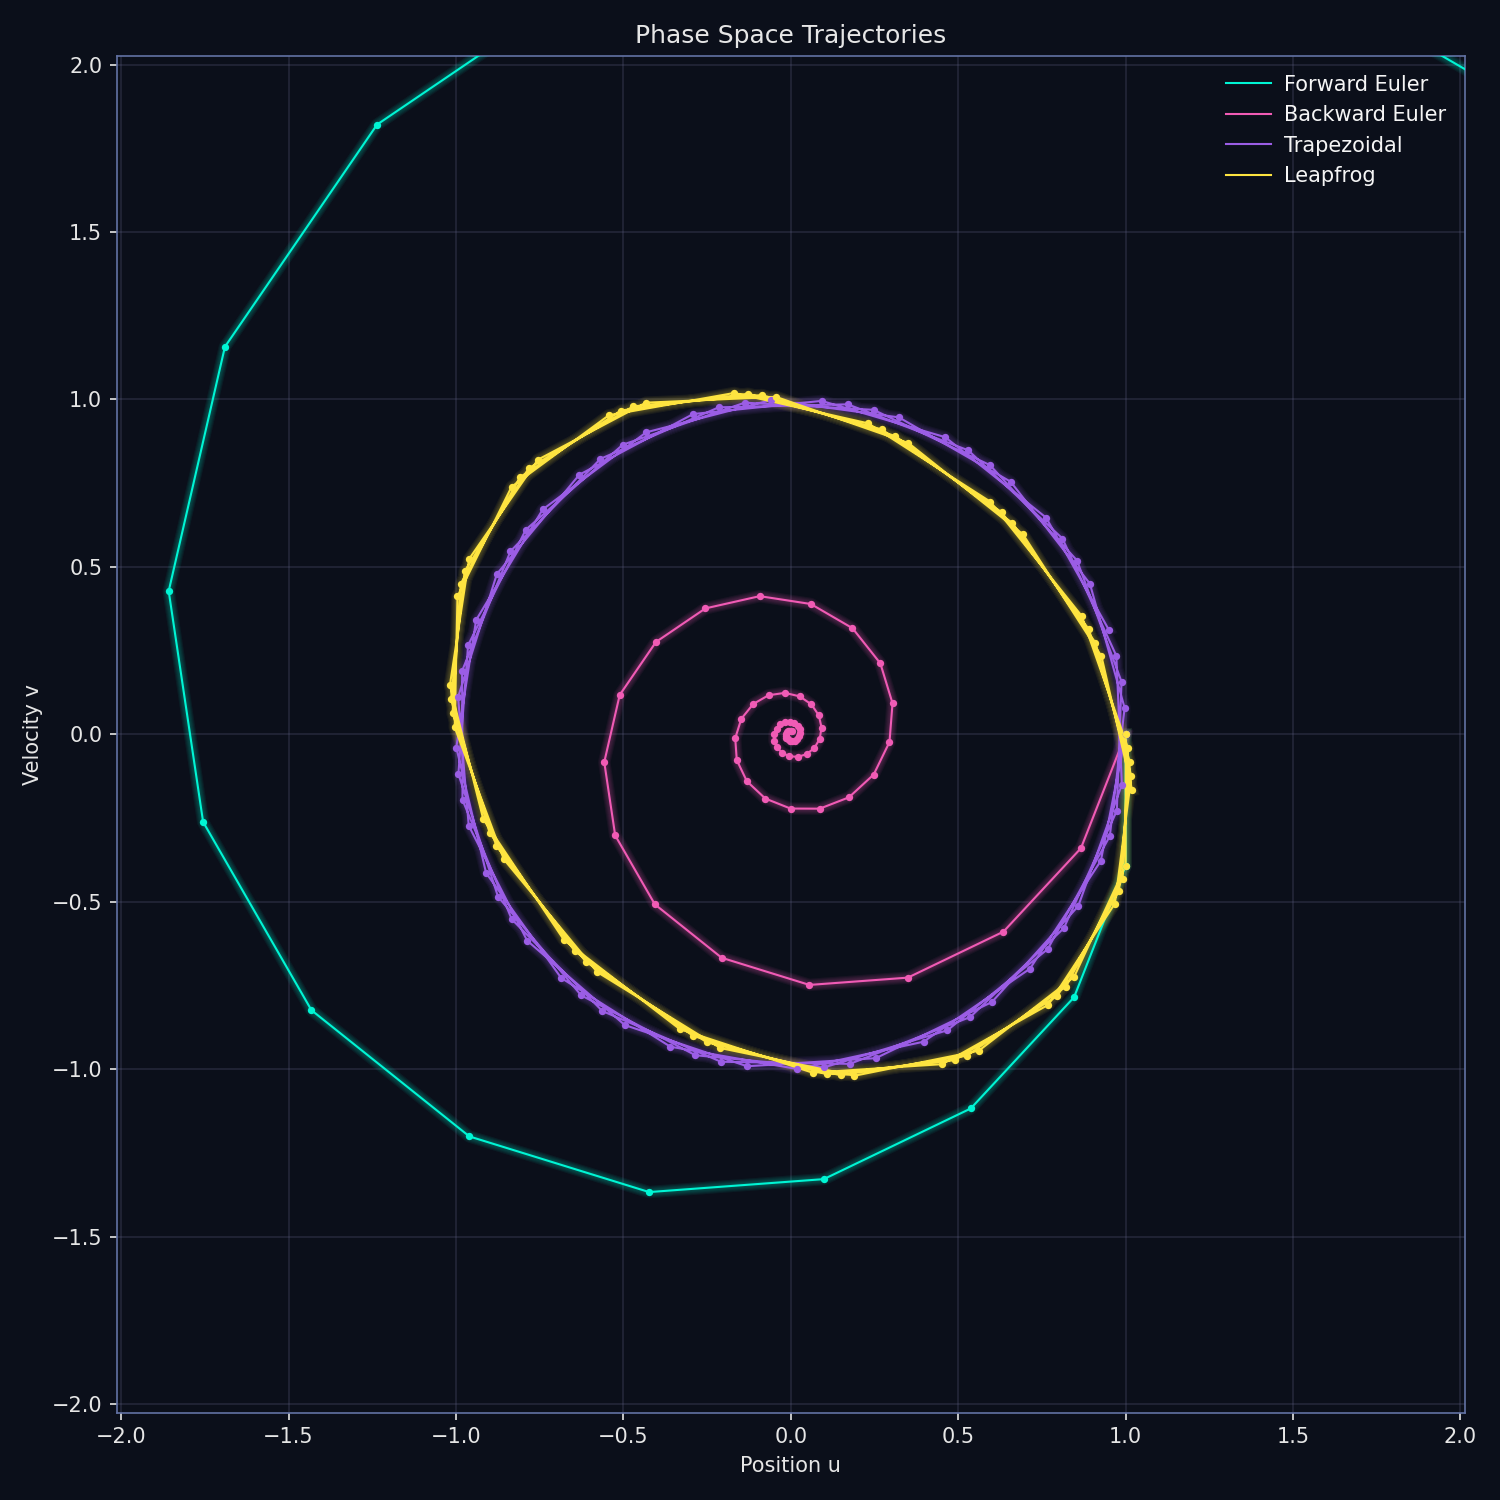
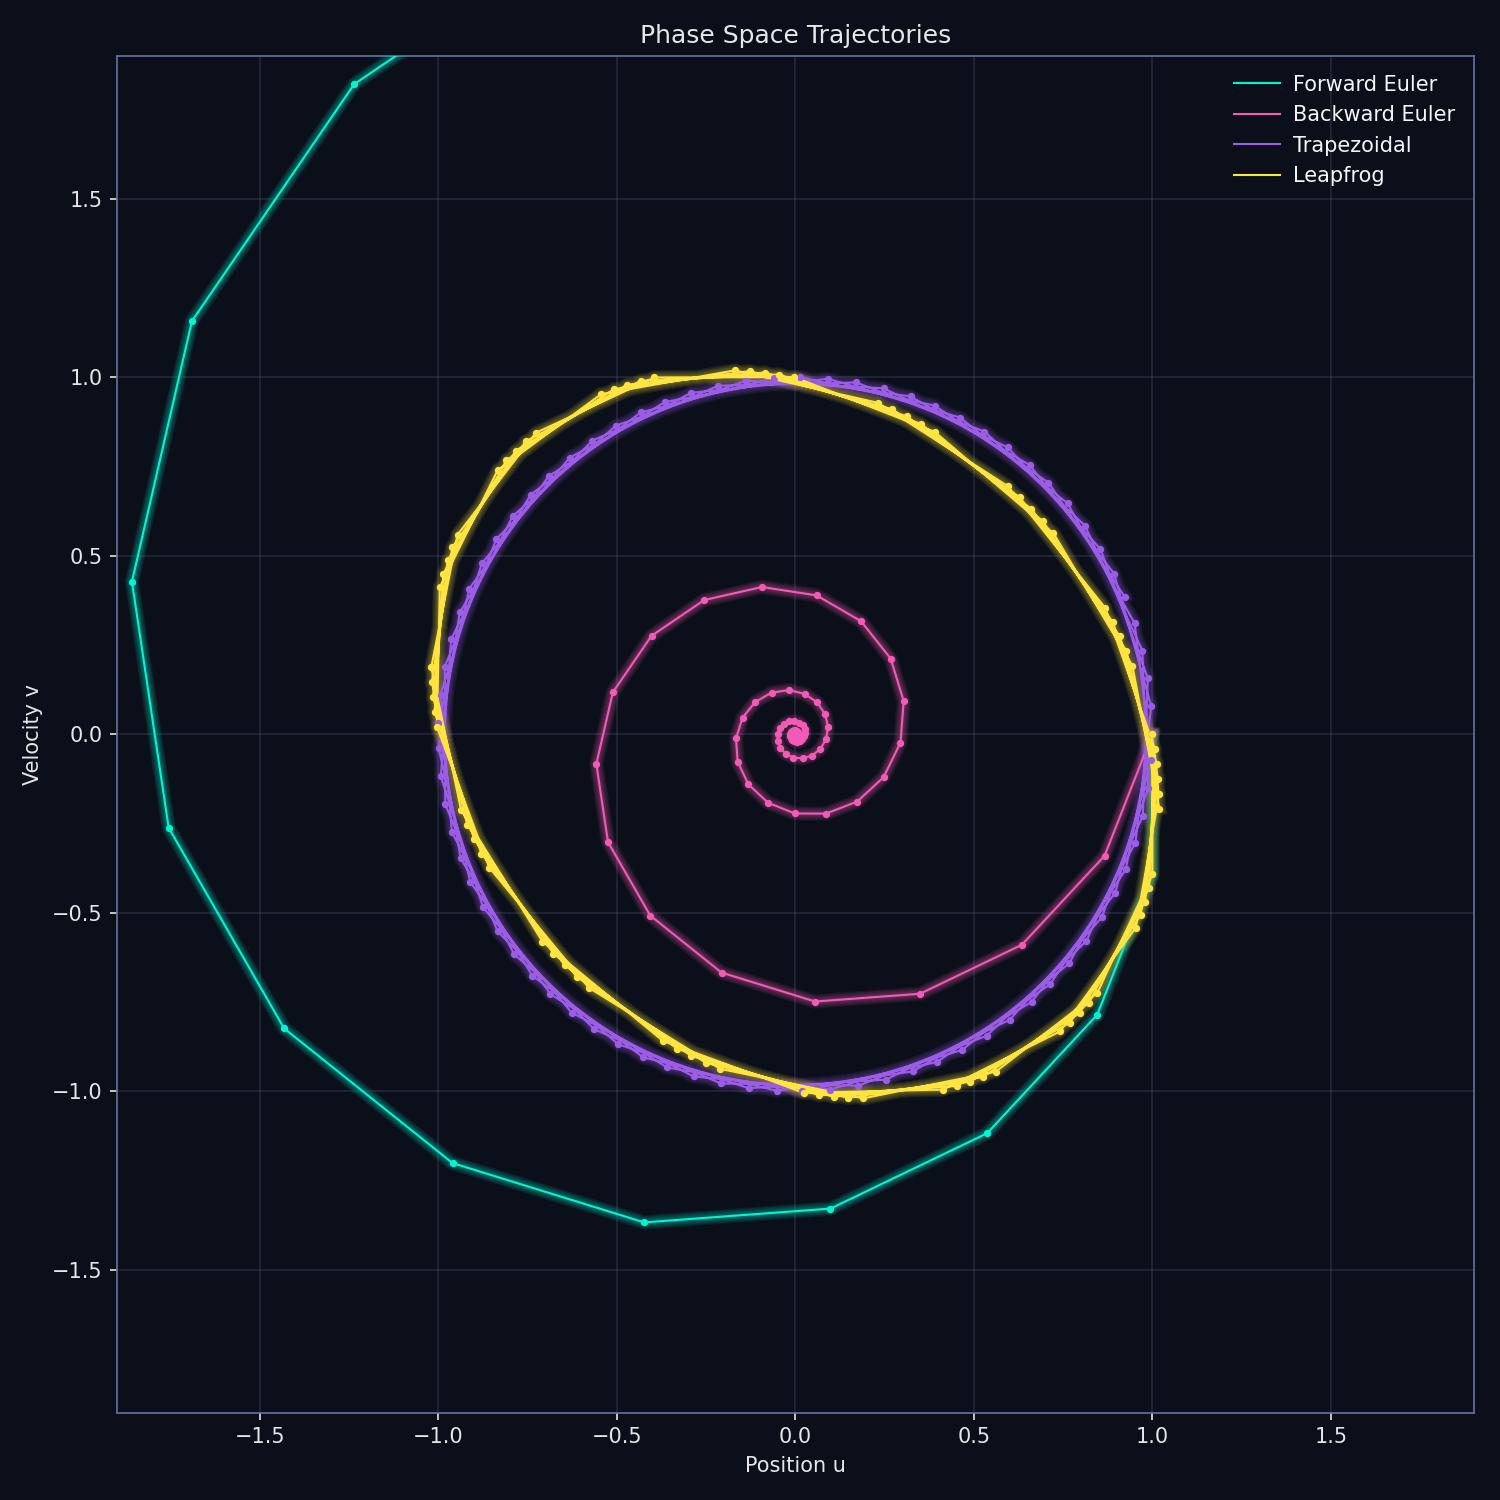
アニメーションも追加

diff --git a/strang/2-2/circular_orbit.py b/strang/2-2/circular_orbit.py
@@ -5,22 +5,22 @@
 # - 台形則
 # - 蛙飛び法
 
+from __future__ import annotations
+
 from pathlib import Path
+from typing import Mapping
 
 import numpy as np
 import matplotlib.pyplot as plt
+from matplotlib import animation
+from matplotlib.axes import Axes
+from matplotlib.lines import Line2D
+from cycler import cycler
 
 
-def neon_plot(x, y, ax=None):
-    if ax is None:
-        ax = plt.gca()
-    (line,) = ax.plot(x, y, lw=1.0, zorder=6)
-    for cont in range(6, 1, -1):
-        ax.plot(x, y, lw=cont, color=line.get_color(), zorder=5, alpha=0.06)
-    return line
-
-
-def run_simulation(method_name, dt=2 * np.pi / 16, steps=64):
+def run_simulation(
+    method_name: str, dt: float = 2 * np.pi / 16, steps: int = 64
+) -> tuple[np.ndarray, np.ndarray]:
     # 初期条件: (u, v) = (1, 0) からスタート
     u = np.zeros(steps + 1)
     v = np.zeros(steps + 1)
@@ -98,7 +98,17 @@ def run_simulation(method_name, dt=2 * np.pi / 16, steps=64):
     return u, v
 
 
-def plot_orbits(methods, dt=2 * np.pi / 16, steps=64, show_exact=False):
+def neon_plot(x: np.ndarray, y: np.ndarray, ax: Axes | None = None) -> Line2D:
+    if ax is None:
+        ax = plt.gca()
+    (line,) = ax.plot(x, y, lw=1.0, zorder=6)
+    for cont in range(7, 1, -1):
+        ax.plot(x, y, lw=cont, color=line.get_color(), zorder=5, alpha=0.07)
+    return line
+
+
+def setup_neon_style() -> list[str]:
+    color_cycle = ["#00f5d4", "#f15bb5", "#9b5de5", "#fee440", "#00bbf9"]
     plt.rcParams.update(
         {
             "figure.facecolor": "#0b0f1a",
@@ -109,11 +119,28 @@ def plot_orbits(methods, dt=2 * np.pi / 16, steps=64, show_exact=False):
             "ytick.color": "#e6e6e6",
             "text.color": "#e6e6e6",
             "grid.color": "#6c6f93",
-            "axes.prop_cycle": plt.cycler(
-                "color", ["#00f5d4", "#f15bb5", "#9b5de5", "#fee440", "#00bbf9"]
-            ),
+            "axes.prop_cycle": cycler("color", color_cycle),
         }
     )
+    return color_cycle
+
+
+def create_neon_lines(ax: Axes, color: str) -> tuple[Line2D, list[Line2D], Line2D]:
+    glow_widths = [7, 6, 5, 4, 3]
+    glow_lines = []
+    for lw in glow_widths:
+        (glow_line,) = ax.plot([], [], lw=lw, color=color, alpha=0.07, zorder=5)
+        glow_lines.append(glow_line)
+    (core_line,) = ax.plot([], [], lw=1.0, color=color, zorder=6)
+    (point,) = ax.plot([], [], ".", color=color, markersize=6, zorder=7)
+    return core_line, glow_lines, point
+
+
+def plot_orbits(
+    trajectories: Mapping[str, tuple[np.ndarray, np.ndarray]],
+    show_exact: bool = False,
+) -> None:
+    setup_neon_style()
 
     fig, ax = plt.subplots(figsize=(10, 10))
 
@@ -130,9 +157,8 @@ def plot_orbits(methods, dt=2 * np.pi / 16, steps=64, show_exact=False):
             zorder=2,
         )
 
-    for method in methods:
+    for method, (u_res, v_res) in trajectories.items():
         try:
-            u_res, v_res = run_simulation(method, dt=dt, steps=steps)
             if u_res[1] is not None:
                 line = neon_plot(u_res, v_res, ax=ax)
                 line.set_label(method)
@@ -151,9 +177,9 @@ def plot_orbits(methods, dt=2 * np.pi / 16, steps=64, show_exact=False):
     ax.set_title("Phase Space Trajectories")
     ax.set_xlabel("Position u")
     ax.set_ylabel("Velocity v")
-    ax.axis("equal")
-    ax.set_xlim((-2, 2))
-    ax.set_ylim((-2, 2))
+    ax.set_aspect("equal", adjustable="box")
+    ax.set_xlim((-1.9, 1.9))
+    ax.set_ylim((-1.9, 1.9))
     ax.legend(
         frameon=False,
         labelcolor="#f5f5f5",
@@ -167,7 +193,93 @@ def plot_orbits(methods, dt=2 * np.pi / 16, steps=64, show_exact=False):
     plt.show()
 
 
+def animate_orbits(
+    trajectories: Mapping[str, tuple[np.ndarray, np.ndarray]],
+    show_exact: bool = False,
+    interval: int = 80,
+    save_path: Path | None = None,
+) -> None:
+    color_cycle = setup_neon_style()
+    fig, ax = plt.subplots(figsize=(10, 10))
+
+    if show_exact:
+        theta = np.linspace(0, 2 * np.pi, 200)
+        ax.plot(
+            np.cos(theta),
+            np.sin(theta),
+            "--",
+            color="#8be9fd",
+            alpha=0.25,
+            label="Exact (Circle)",
+            zorder=2,
+        )
+
+    line_sets = {}
+
+    methods = list(trajectories.keys())
+    for method, color in zip(methods, (color_cycle * len(methods))):
+        u_res, v_res = trajectories[method]
+        core_line, glow_lines, point = create_neon_lines(ax, color)
+        core_line.set_label(method)
+        line_sets[method] = (core_line, glow_lines, point)
+
+    ax.set_aspect("equal", adjustable="box")
+    ax.set_xlim((-1.9, 1.9))
+    ax.set_ylim((-1.9, 1.9))
+    ax.grid(True, alpha=0.25, zorder=1)
+    ax.tick_params(bottom=False, left=False, labelbottom=False, labelleft=False)
+    for spine in ax.spines.values():
+        spine.set_visible(False)
+    fig.subplots_adjust(left=0, right=1, bottom=0, top=1)
+
+    def init() -> list[Line2D]:
+        artists: list[Line2D] = []
+        for method in methods:
+            core_line, glow_lines, point = line_sets[method]
+            core_line.set_data([], [])
+            point.set_data([], [])
+            artists.append(core_line)
+            artists.append(point)
+            for glow_line in glow_lines:
+                glow_line.set_data([], [])
+                artists.append(glow_line)
+        return artists
+
+    def update(frame: int) -> list[Line2D]:
+        artists: list[Line2D] = []
+        for method in methods:
+            u_res, v_res = trajectories[method]
+            core_line, glow_lines, point = line_sets[method]
+            x = u_res[: frame + 1]
+            y = v_res[: frame + 1]
+            core_line.set_data(x, y)
+            point.set_data([u_res[frame]], [v_res[frame]])
+            artists.append(core_line)
+            artists.append(point)
+            for glow_line in glow_lines:
+                glow_line.set_data(x, y)
+                artists.append(glow_line)
+        return artists
+
+    anim = animation.FuncAnimation(
+        fig,
+        update,
+        frames=len(next(iter(trajectories.values()))[0]),
+        init_func=init,
+        interval=interval,
+        blit=True,
+    )
+
+    if save_path is None:
+        save_path = Path(__file__).resolve().parent / "circular_orbit.gif"
+    anim.save(save_path, writer=animation.PillowWriter(fps=int(1000 / interval)))
+
+    plt.show()
+
+
 if __name__ == "__main__":
     # --- 実行と描画 ---
     methods = ["Forward Euler", "Backward Euler", "Trapezoidal", "Leapfrog"]
-    plot_orbits(methods)
+    trajectories = {method: run_simulation(method, steps=80) for method in methods}
+    plot_orbits(trajectories)
+    animate_orbits(trajectories)

diff --git a/README.md b/README.md
@@ -1,4 +1,11 @@
 # study_cse
+
 [![Open in MATLAB Online](https://www.mathworks.com/images/responsive/global/open-in-matlab-online.svg)](https://matlab.mathworks.com/open/github/v1?repo=keisei4064/study_cse)
 
 数値計算・解析の勉強
+
+## 円軌道の数値積分
+
+![circular_orbit.png](strang/2-2/circular_orbit.png)
+
+![circular_orbit.gif](strang/2-2/circular_orbit.gif)
